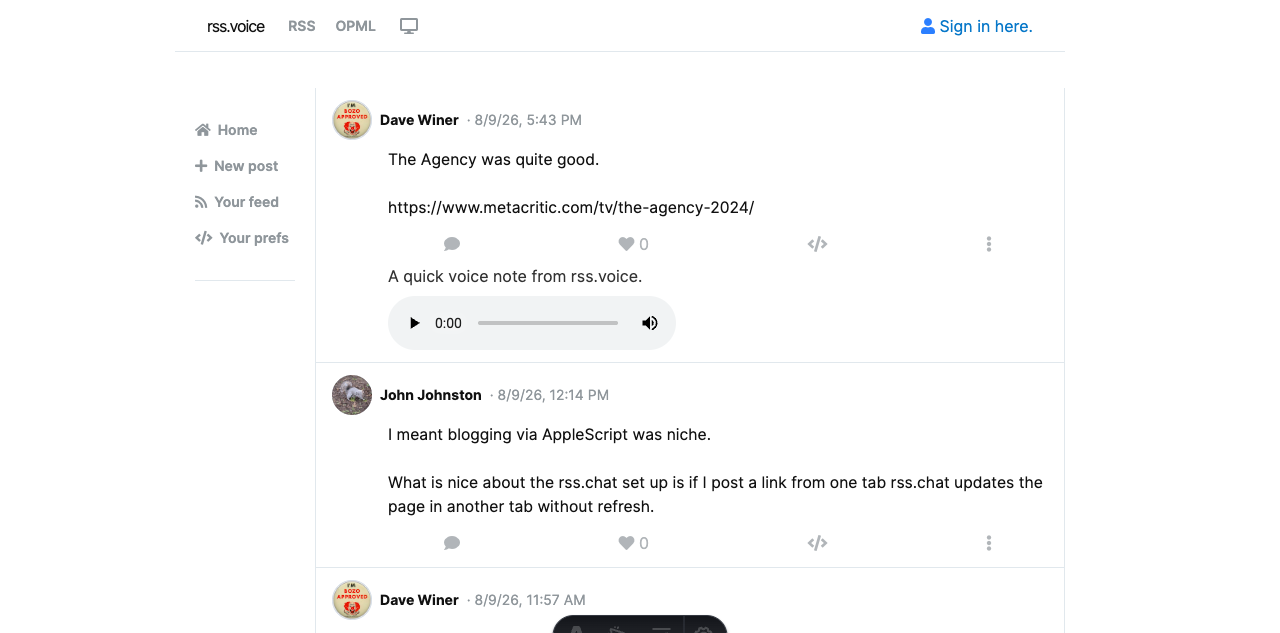
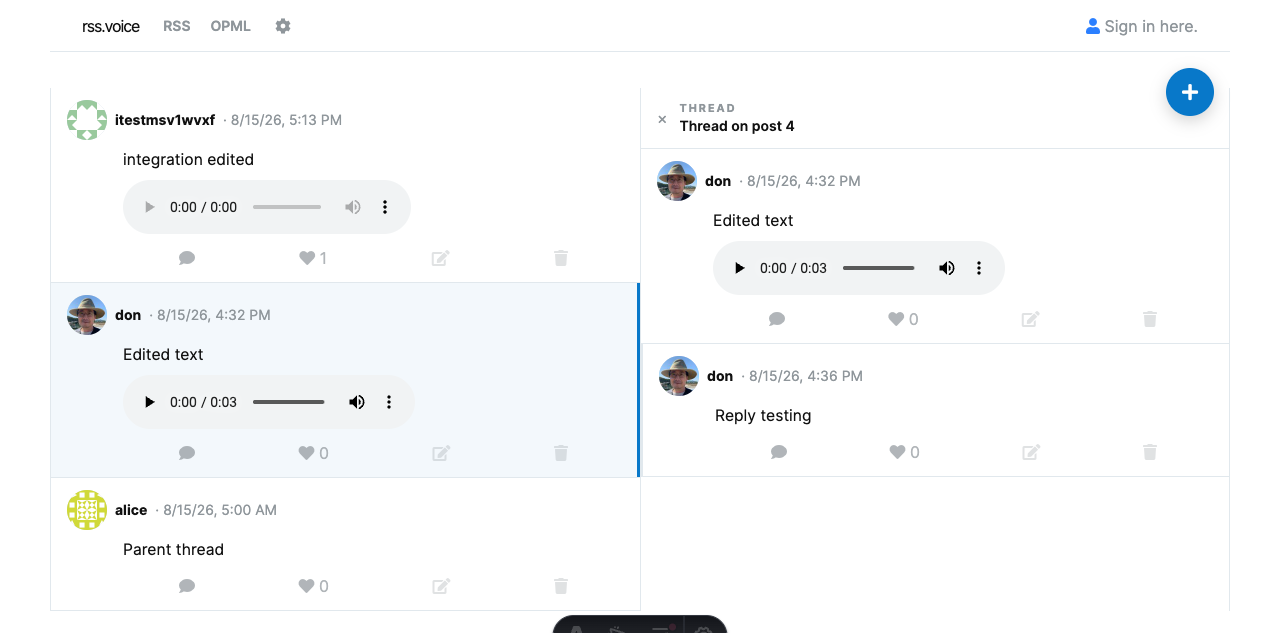
Refresh voice post layout screenshot

diff --git a/README.md b/README.md
@@ -69,4 +69,4 @@ Set `MAIL_WEBHOOK_URL` in the remote Worker for production magic-link email deli
 
 ### Voice posts
 
-![rss.voice voice post](docs/screenshots/voice-post.png)
+![rss.voice voice post with thread view](docs/screenshots/voice-post.png)
